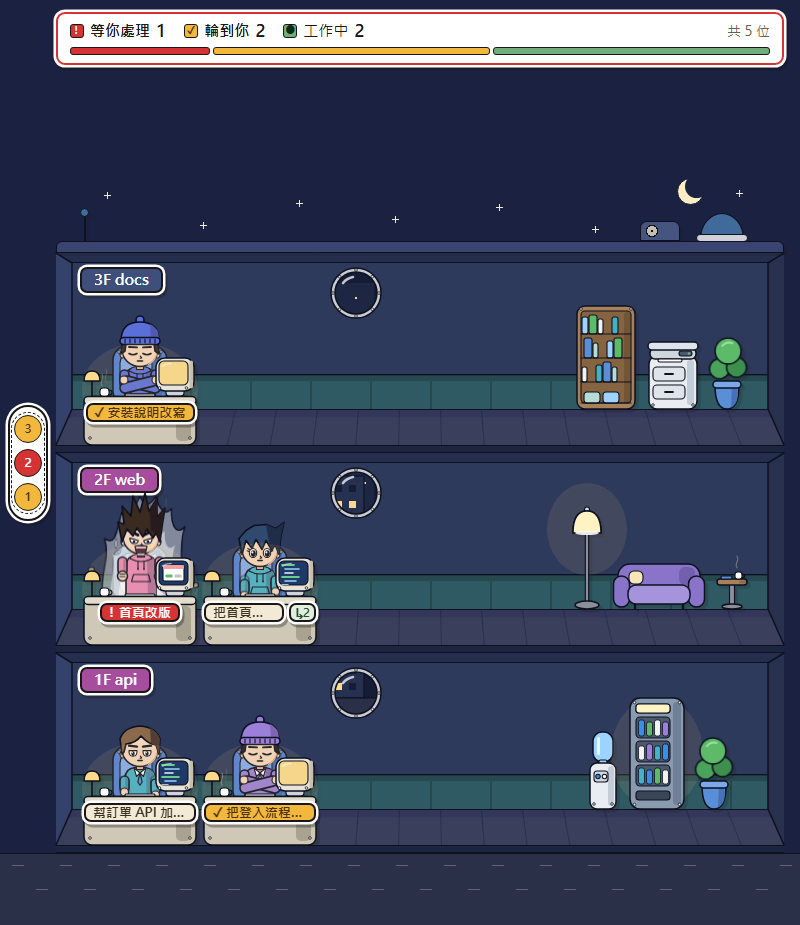
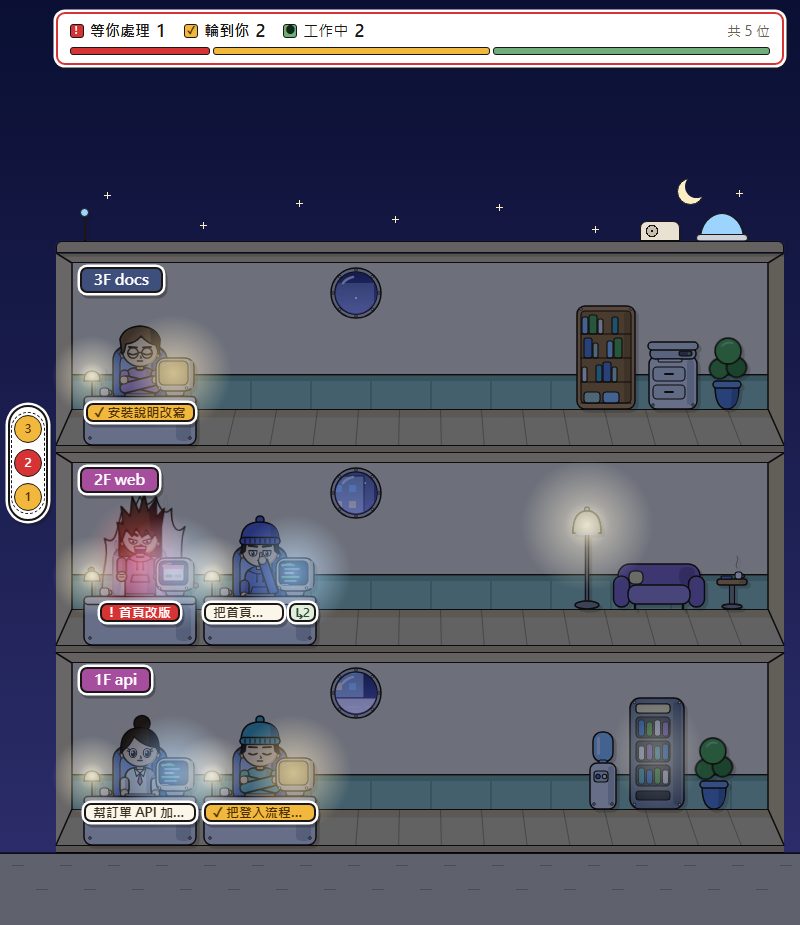
docs: 重拍白天和夜晚截圖，README 和 design.md 對齊鳥山明畫風改版的現況
- README：夜晚的說明、爆氣夜晚的紅光、檔案表裡 furniture.ts 和 view.ts 的實際內容
- design.md：狀態不用漫符、退場要藏的部件清單、設計稿的連結和看法、併入改版時否決的做法

diff --git a/docs/design.md b/docs/design.md
@@ -62,7 +62,8 @@ Claude Code ─hook─▶ src/hook/send.ts ─POST /events─▶ src/server ─r
 - **沒有電梯和走路**：人在座位上瞬移登場（直向光痕閃兩下，人從窄變寬、稍微超過再彈回，兩邊的殘影收回本體，約 0.35 秒）；退場時站起來雙指點額 0.3 秒，再閃三下、橫向壓成一條線，留下光痕後消失（共約 0.8 秒）。開頁面和重新連線時大家直接坐好，不播動畫。電梯進出原本是前端最複雜、又沒有測試的部分，所以拿掉，換成好維護。
 - **生命力來自狀態動作**：工作中殘像打字（兩層半透明殘影，約每 7 秒停下來推一次鼻子，螢幕程式碼一行一行往上捲；三種狀態裡最安靜），等你處理站起來爆氣（半透明白色的火焰氣場，白天疊在奶油色牆上看不清楚，所以外圍加一圈冷藍光暈；只有角色自己抖動、整層樓不震動；氣場本身不用紅色，白天紅色只在名牌上，夜晚氣場周圍再映出一圈紅光），輪到你抱胸閉眼冥想（約每 6 秒睜開右眼、挑起右眉瞄觀看者約 0.5 秒；減少動態時停在閉眼）。每個人的動作用 sessionId 算出的延遲錯開（`view.ts` 的 `motionDelay`，`person.ts` 設成 CSS 變數 `--delay`），不會像整排機器人同步。環境也會動，但都比爆氣安靜得多（慢、幅度小）：屋頂上方的三朵雲各自左右飄、窗景的雲整片往左飄（所有窗看的是同一片天，所以一起飄；雲在全景上半部，4F 以上的窗才看得到）、盆栽的葉子輕晃、邊桌的咖啡和輪到你桌上的馬克杯冒煙。家具和桌子的動作用 `motionDelay(樓層 key + 家具或座位)` 錯開。環境動畫都寫在 `theme.css`，`building.css` 不放動畫（樓層本身不能動）。減少動態時 `#building *` 一條規則全停，煙停在半透明、不消失。
 - **每層樓是淺盒舞台**：看得到天花板、後牆（下段是藍綠色護牆板）、木地板和兩側斜牆，人和家具仍然正面朝向觀看者。樓層寬度不固定，所以外殼的中段用 CSS 畫，兩側寬 16 的斜牆（連同天花板和地板的斜角）是一張固定大小的 SVG（`objects.ts` 的 `ROOM_SIDE`），右邊那張用 CSS 鏡像。木地板照設計稿畫透視：靠後牆一條較深的帶子，板縫在後緣每約 42 一條、往前散開對到樓層兩端，這要知道樓層寬，所以由 `floor.ts` 依寬度畫一張 SVG（`objects.ts` 的 `floorSeams`）。桌子、招牌和家具區離樓層左右緣各留 24（`GEO.sideGap`），不貼著斜牆；樓層寬也跟著多 48。
-- **畫風**：介面（名牌、招牌、狀態列、電梯面板、資訊卡）共用一組樣式變數（`theme.css` 的 `--ui-*`）：2px 墨線框、2.5px 白外圈、往右下的半透明硬投影，值取自設計稿白天畫板的名牌；招牌和狀態列在設計稿裡投影略有不同，統一成同一組。狀態列、電梯面板、資訊卡是白底墨字，不在夜晚遮罩下，日夜長得一樣。環境是圓滾滾的機械風，和人物同一套畫法：黑色線稿、圓角、鉚釘、一階硬影（右側一塊加深的實色，不用網點）；整體配色、明暗和墨線（`#1b1716`）以設計稿白天畫板為準：天空是 `#5fb6f5` 到 `#bfe6ff` 的漸層（`--sky-bg`，固定在視窗上，頂端狀態列的底也用它才接得起來），桌子、家具、屋頂有往右下 3px 的半透明硬投影（`--drop`），讓它們離開牆面；設計稿的投影是暖褐 `#5a3418`，色相太接近琥珀，所以改用墨色。桌子是冷白（奶油色的桌子和奶油色的牆混在一起，看起來是平的），配胖胖的映像管螢幕（設計稿的深藍底：工作中是綠、藍、白輪流的亮色程式碼，空桌是一道淡藍弧；只有輪到你的螢幕是琥珀色，那是狀態信號）（畫面大、邊框窄）、每張桌子後面一把藍色椅子（不用藍綠，免得和護牆板混在一起；空桌也有，畫在人後面，椅背從人的兩側露出來）、鉚釘圓窗、圓頂水塔、圓頭立燈。雲照設計稿畫成平底、上緣三個圓包的蓬鬆輪廓加墨線（`objects.ts` 的 `CLOUD_D`），屋頂上方的雲和窗景的雲共用；線寬不跟著縮放，窗裡的小雲也看得到線。人物是鳥山明前期風的 Q 版，造型照「Claude 辦公室美術設計稿」artifact 的定稿：大頭（寬橢圓臉，瀏海壓到眉毛、五官在臉的下半部）、黑色線稿（外輪廓 `ol` 比內線粗）、一階硬影（同色加深的實色，不用網點）、中明度飽和色的衣服、自然色的頭髮、大塊稜角髮束、只露前臂、人物本身不畫椅子（椅子是桌子那一層的物件）；眼型（角度眼加粗斜眉、大圓眼加睫毛）、髮型、髮色、衣服都由 sessionId 雜湊決定。不放原作的角色、招牌髮型、標誌或名字。
+- **畫風**：介面（名牌、招牌、狀態列、電梯面板、資訊卡）共用一組樣式變數（`theme.css` 的 `--ui-*`）：2px 墨線框、2.5px 白外圈、往右下的半透明硬投影，值取自設計稿白天畫板的名牌；招牌和狀態列在設計稿裡投影略有不同，統一成同一組。狀態列、電梯面板、資訊卡是白底墨字，不在夜晚遮罩下，日夜長得一樣。環境是圓滾滾的機械風，和人物同一套畫法：黑色線稿、圓角、鉚釘、一階硬影（右側一塊加深的實色，不用網點）；整體配色、明暗和墨線（`#1b1716`）以設計稿白天畫板為準：天空是 `#5fb6f5` 到 `#bfe6ff` 的漸層（`--sky-bg`，固定在視窗上，頂端狀態列的底也用它才接得起來），桌子、家具、屋頂有往右下 3px 的半透明硬投影（`--drop`），讓它們離開牆面；設計稿的投影是暖褐 `#5a3418`，色相太接近琥珀，所以改用墨色。桌子是冷白（奶油色的桌子和奶油色的牆混在一起，看起來是平的），配胖胖的映像管螢幕（設計稿的深藍底：工作中是綠、藍、白輪流的亮色程式碼，空桌是一道淡藍弧；只有輪到你的螢幕是琥珀色，那是狀態信號）（畫面大、邊框窄）、每張桌子後面一把藍色椅子（不用藍綠，免得和護牆板混在一起；空桌也有，畫在人後面，椅背從人的兩側露出來）、鉚釘圓窗、圓頂水塔、圓頭立燈。雲照設計稿畫成平底、上緣三個圓包的蓬鬆輪廓加墨線（`objects.ts` 的 `CLOUD_D`），屋頂上方的雲和窗景的雲共用；線寬不跟著縮放，窗裡的小雲也看得到線。人物是鳥山明前期風的 Q 版，造型照「Claude 辦公室美術設計稿」artifact（https://claude.ai/artifact/P3nBrZxz9wgvDNEXzKgwci，白天、夜晚、雙指點額三張畫板）的定稿：大頭（寬橢圓臉，瀏海壓到眉毛、五官在臉的下半部）、黑色線稿（外輪廓 `ol` 比內線粗）、一階硬影（同色加深的實色，不用網點）、中明度飽和色的衣服、自然色的頭髮、大塊稜角髮束、只露前臂、人物本身不畫椅子（椅子是桌子那一層的物件）；眼型（角度眼加粗斜眉、大圓眼加睫毛）、髮型、髮色、衣服都由 sessionId 雜湊決定。不放原作的角色、招牌髮型、標誌或名字。
+- **設計稿管整體的畫風配色，不管個別物件的顏色**：色調、明暗層次、線條和外框、夜晚的壓暗方式以設計稿為準，改了要和設計稿並排比較；爆氣氣場的白色、招牌的專案色、藍色椅子、多扇小窗看街景、狀態色是這裡自己的選擇，不跟設計稿。設計稿 artifact 是由型別建立的，`read_artifact` 讀不到：用 `list_files` 列檔，`read_file` 讀 `project/Main.dc.html`（白天）和 `project/Night.dc.html`（夜晚），去掉 `<script src="./support.js"></script>` 存成本機 html，再用 headless Edge 截圖（`--force-device-scale-factor=2 --window-size=688,600`），截完把 html、截圖和 profile 刪掉。
 - **日夜依本機時間**：6:00–18:00 是白天，可以用 `?time=day|night` 固定。不看系統深色模式，切換也沒有過渡動畫。
 - **夜晚是同一套顏色加遮罩**：環境顏色只有一套（`theme.css` 的 `:root`），日夜只切換天空（`--sky-bg`，夜晚是設計稿的 `#0a0f33` 到 `#2e2f6e`）和 `--day`／`--night`（雲、星星、燈罩亮起這些只在白天或夜晚出現的東西）。夜晚每層樓蓋一層 `--night-shade`（`#16224a`）的 `multiply` 遮罩、不透明度 .62，照設計稿的夜晚畫板，屋頂女兒牆和地面也蓋；水塔和冷氣不蓋，同設計稿。遮罩上用 `screen` 疊光暈（`.glow`）：桌燈和螢幕（輪到你的螢幕發琥珀光）、窗外夜空（全景在夜晚蓋一片暗夜空，壓暗後幾乎是黑的，光暈再把設計稿的夜空漸層疊回來）、立燈、販賣機，以及爆氣氣場周圍的紅光（掛在人物上，瞬移時跟氣場一起藏）。名牌、招牌、大廳紙條疊在光暈上面，夜晚和白天一樣清楚。疊放靠 z-index：遮罩 1、光暈 2、名牌和招牌 3，它們都在根的疊層裡，所以樓層、桌子、人物這幾層祖先都不能建立自己的疊層（不能加 `transform`、`filter`、`opacity`、`z-index`），不然遮罩或光暈會被關在裡面。設計稿把螢幕外殼、窗框、燈罩整個重畫在遮罩上；這裡只疊光暈，它們本身仍被壓暗，比設計稿暗一些。
 
@@ -72,6 +73,7 @@ Claude Code ─hook─▶ src/hook/send.ts ─POST /events─▶ src/server ─r
 - 換了畫風或動畫之後，等你處理或輪到你反而變得不醒目。
 - 畫面上出現大片空白或暗角：大樓比視窗矮時，上方要是天空。
 - 夜晚的文字、名牌、狀態對比太低。
+- 狀態以外的東西看起來是紅色或琥珀色，掃一眼就誤以為有人在等你。
 - 氣場、豎起的頭髮或手勢蓋住招牌、隔壁的人或名牌文字。稍微遮擋可以接受，在瀏覽器裡看，不寫幾何測試。
 
 ## 前端寫法規則
@@ -80,7 +82,8 @@ Claude Code ─hook─▶ src/hook/send.ts ─POST /events─▶ src/server ─r
 - **前端只測邏輯和規則，不測長相**：樓層排序、名牌、日夜這類算錯了看不出來的邏輯，以及顏色、狀態色、CSS 和 SVG class 對得上這類規則，才寫測試。部件位置、外框、尺寸、畫法細節不寫測試，那只是把目前的長相釘死，改畫風時還得跟著改；這些在瀏覽器裡看白天和夜晚。
 - **SVG 顏色只能寫在 `style` 或 class**，不能寫成 `fill="…"`／`stroke="…"` 屬性，因為呈現屬性不接受 `var()`，日夜切換會失效。測試會檢查這件事。
 - **紅色和琥珀色只給狀態用**：環境、招牌專案色、髮色、衣服色都不能用，掃一眼才不會誤判誰在等你。狀態色只能寫在 `theme.css` 的狀態變數（`--waiting`、`--turn`、`--screen-waiting`、`--screen-turn`），大樓外殼的 CSS 只有名牌和輪到你的螢幕光（夜晚 `.desk[data-st="idle"] .glow`）能引用；人物的 CSS 只有夜晚爆氣的紅光引用 `--waiting`。光暈的顏色寫成 `rgb()`，不在 hex 掃描範圍內，新增時要自己確認不落進狀態色。`test/state-colors.test.ts` 會抽出所有 hex 色，色相離這兩色 20° 內、HSV 彩度 ≥ 0.55 就算違規。
-- **人物的姿勢和漫符都交給 CSS**，依 `data-act`（work／up／idle）與 `data-fx`（in／out）切換。`person.ts` 只負責設屬性和計時。
+- **人物的姿勢、表情、氣場和瞬移都交給 CSS**，依 `data-act`（work／up／idle）與 `data-fx`（in／out）切換，SVG 裡每個部件是一個可以單獨切換的群組。`person.ts` 只負責設屬性和計時。退場時一律換成工作中的臉和普通頭髮、藏起其他臉和手勢（`figure.css` 的 `[data-fx="out"]` 清單）；氣場和小石子在登場、退場時都藏（`[data-fx]`）。新增狀態部件時要加進這兩條。
+- **狀態不用符號表現**：只靠名牌顏色和角色演出，不畫漫符（「噠噠」、zZ、「！」框、集中線、汗滴、打勾泡泡、「到！」、「辛苦了～」）。符號多了畫面雜，人物本身反而沒表情。
 - **進出動畫放在 `.figure`，不放 `.fig`**，因為 `.fig` 的 `transform` 已經用在站起來。動畫要放在 `.person` 的子元素上，減少動態的規則才停得掉。`ENTER_MS`／`EXIT_MS` 要和 figure.css 的 keyframes 時間一致，測試直接匯入這兩個常數比對。瞬移的光痕和殘影放在人物 SVG 外面的 `.warp`（`figure.ts` 的 `WARP_SVG`），人被壓成一條線時光痕才還看得到；平常透明，減少動態時就一直看不到。
 - **點額的手排在頭和頭髮後面**：SVG 後畫的蓋在前面，不這樣排手指會被頭髮蓋住。手指畫得比真的大，100px 的人物也認得出是兩根。
 - **會動的部件不放在共用的 symbol 裡**：Chromium 不會把 CSS 動畫帶進 `<use>` 的複本，畫面上看起來是不動的。所以會動的部件直接放進 DOM：`objects.ts` 把它們畫成和 symbol 同外框、同座標的疊圖（`overlay`），`floor.ts` 疊在物件的 svg 上。螢幕上捲動的程式碼（`DESK_CODE`）和馬克杯的煙（`DESK_STEAM`）疊在每張桌子上，依桌子的 `data-st` 顯示；盆栽的葉子和邊桌的煙在 `FURN_ANIM`；窗景的雲是另一個 symbol（`pano-clouds`），每扇窗畫三份放進一個會平移的 `<g class="drift">`（`<use>` 元素本身可以動，動不了的只是影子樹裡面）。
@@ -98,3 +101,15 @@ Claude Code ─hook─▶ src/hook/send.ts ─POST /events─▶ src/server ─r
 - 每層各自左右捲加邊緣提示：所以改成同寬、整頁捲動。
 - 電梯進出與走路動畫：所以改成在座位上登場和退場。
 - 登場「到！」、退場「辛苦了～」貼紙：漫符，改成瞬移。
+- 細墨線加網點的線稿畫風、狀態靠漫符表現：看起來像慢慢描出來的線稿，符號多、人物沒表情，所以改成鳥山明前期風和角色演出。
+- AI 生圖（Gemini 免費版）：要人工反覆操作，角色在不同姿勢之間很難保持一致，最後決定不用外部資源。
+- 素材包：Neko Office 禁止再散布，和公開 repo 衝突；其他免費包大多只有走路和閒置，沒有坐姿和狀態動作。
+- 3D 角色渲染成 sprite（KayKit＋Blender）、Phaser／three.js：需要外部工具或即時渲染。
+- 程式像素畫：臉太小，表情只剩幾個像素，狀態幾乎只能靠符號表現。
+- 向量柔和插畫風、賽璐璐動漫風：雛形比較後選了鳥山明風。
+- 桌上警示燈、小機器人：要用角色演出取代符號，也不加道具。
+- 雛形裡的第一版演出（雙手高舉揮動、托下巴轉椅子）：改成爆氣和閉眼冥想。
+- 其他工作中的動作：打字連拳太吵，會比爆氣搶眼；負重修行要靠汗滴表現，汗滴算漫符；單手倒立時臉會跑到桌子下面；集氣或氣功波的能量球太搶眼，也是原作的招牌動作。
+- 紅色氣場：等你處理的紅色只放在名牌，氣場改成半透明白色（白天外圍加冷藍光暈），夜晚才在周圍映出紅光。
+- 桌子和椅子用橘、紅：名牌看不清楚。奶油色桌子也否決了，和奶油色的牆混在一起；藍綠色椅子和護牆板混在一起。所以是冷白桌、藍椅。
+- 夜晚換一套灰暗配色：要維護兩套顏色，看起來也不像晚上，改成同一套顏色加遮罩。

diff --git a/README.md b/README.md
@@ -124,6 +124,7 @@ npm run simulate -- --loop
 
 - 本機時間 6:00（含）到 18:00（不含）是白天，其餘是夜晚；頁面開著時會自動切換。
 - 網址加 `?time=day` 或 `?time=night` 可以固定。系統的深色模式不影響。
+- 夜晚的房間蓋一層深藍色，天上有月亮和星星。桌燈、螢幕、窗外夜空、立燈和販賣機亮著，名牌、招牌、狀態列、電梯面板和資訊卡和白天一樣清楚。
 
 ## 三種狀態
 
@@ -132,7 +133,7 @@ npm run simulate -- --loop
 | 狀態 | 動作 | 名牌 | 觸發事件 |
 | --- | --- | --- | --- |
 | 工作中 | 坐著飛快打字，手後面拖著兩層半透明殘影，偶爾停下來推一下鼻子；螢幕上的程式碼在捲動 | 米白色 | UserPromptSubmit、PreToolUse（AskUserQuestion 除外）、PostToolUse、PostToolUseFailure、ElicitationResult |
-| 等你處理 | 站起來爆氣：握拳大喊、頭髮豎起、全身發抖，背後冒半透明白色的火焰氣場（白天外圍多一圈藍色光暈），桌子兩側有小石子往上飄；螢幕顯示權限對話框 | 紅色，以「!」開頭 | PermissionRequest、PreToolUse 的 AskUserQuestion、Elicitation、權限或輸入類的 Notification |
+| 等你處理 | 站起來爆氣：握拳大喊、頭髮豎起、全身發抖，背後冒半透明白色的火焰氣場（白天外圍多一圈藍色光暈，夜晚周圍映出紅光），桌子兩側有小石子往上飄；螢幕顯示權限對話框 | 紅色，以「!」開頭 | PermissionRequest、PreToolUse 的 AskUserQuestion、Elicitation、權限或輸入類的 Notification |
 | 輪到你 | 坐著抱胸、閉眼冥想，偶爾睜開一隻眼睛、挑起眉毛瞄你一下 | 琥珀色，以「✓」開頭 | Stop、StopFailure；剛出現、還沒有其他事件的新 session |
 
 左側電梯面板上，有人等你處理的那層亮紅燈，有人輪到你的亮琥珀燈。
@@ -203,11 +204,12 @@ npm run build
 | `scripts/simulate.ts` | 模擬事件 |
 | `web/src/floors.ts` | 樓層、座位、電梯燈、各層共用寬度等純計算，尺寸常數 `GEO` |
 | `web/src/building.ts`、`floor.ts`、`person.ts` | 大樓、單層樓、單一人物 |
-| `web/src/figure.ts`、`objects.ts`、`furniture.ts` | 人物、桌窗家具的 SVG |
+| `web/src/figure.ts`、`objects.ts` | 人物的 SVG；桌子、窗、家具和樓層兩側斜牆的 SVG |
+| `web/src/furniture.ts` | 每層樓的家具組合，窗和招牌的位置 |
 | `web/src/elevator.ts`、`card.ts`、`main.ts` | 電梯面板、資訊卡、狀態列與分頁標題 |
 | `web/index.html` | 頁面入口 |
 | `web/src/theme.ts`、`web/src/styles/theme.css` | 日夜判斷（6:00–18:00 白天）、配色與夜晚遮罩的顏色 |
-| `web/src/view.ts` | 名牌文字、狀態摘要、配色表 |
+| `web/src/view.ts` | 名牌文字、狀態摘要、人物外觀和動作錯開的延遲、專案色 |
 | `web/src/sync.ts` | 連伺服器收事件、前端的員工狀態 |
 | `web/src/svg.ts`、`dom.ts`、`motion.ts` | SVG 與 DOM 小工具、減少動態判斷 |
 | `web/src/styles/*.css` | 大樓、人物、資訊卡與狀態列等樣式 |
